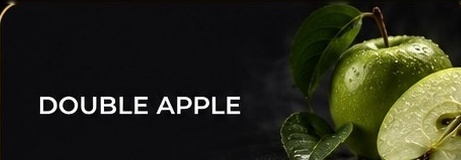
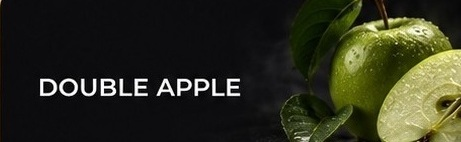
Add files via upload

diff --git a/hansum.html b/hansum.html
@@ -62,6 +62,9 @@ button{font-family:inherit;cursor:pointer}
 .flavor-card{aspect-ratio:2.25/1}
 .flavor-wide-card{width:100%;aspect-ratio:3.8/1}
 .flavor-card img,.flavor-wide-card img{display:block;width:100%;height:100%;object-fit:cover}
+.flavor-specific .flavor-card img{object-position:left center}
+.flavor-card,.flavor-wide-card{box-sizing:border-box}
+.flavor-card.selected,.flavor-wide-card.selected{box-shadow:0 0 0 1px rgba(217,184,108,.14),0 8px 28px rgba(0,0,0,.28)}
 .flavor-card:hover,.flavor-wide-card:hover{transform:translateY(-1px);border-color:rgba(217,184,108,.5)}
 .flavor-card.selected,.flavor-wide-card.selected{border:1px solid #d9b86c;box-shadow:inset 0 0 0 1px #d9b86c,0 0 0 1px rgba(217,184,108,.14),0 8px 28px rgba(0,0,0,.28)}
 .flavor-check{position:absolute;right:10px;top:10px;width:27px;height:27px;border-radius:50%;background:#d9b86c;color:#090909;display:flex;align-items:center;justify-content:center;font-weight:800;font-size:15px;box-shadow:0 4px 12px rgba(0,0,0,.4)}

diff --git a/index.html b/index.html
@@ -99,7 +99,7 @@
     <div class="coffee-image-wrap coffee-image-below-title">
       <img src="images/coffee-86-v5.jpeg" alt="HANSUM -86°C Coffee">
     </div>
-    <p>Vietnamese coffee, reimagined the HANSUM way. Cold, dramatic and made for the late-night crowd.</p>
+    <p>A global coffee trend, brought to Vietnam and reimagined the HANSUM way. Cold, striking and made for the late-night crowd.</p>
     <div class="coffee-list">
       <span>−86° ESPRESSO</span><span>−86° DIRTY</span><span>−86° SAIGON</span>
       <span>−86° SPANISH LATTE</span><span>−86° COCONUT</span>
